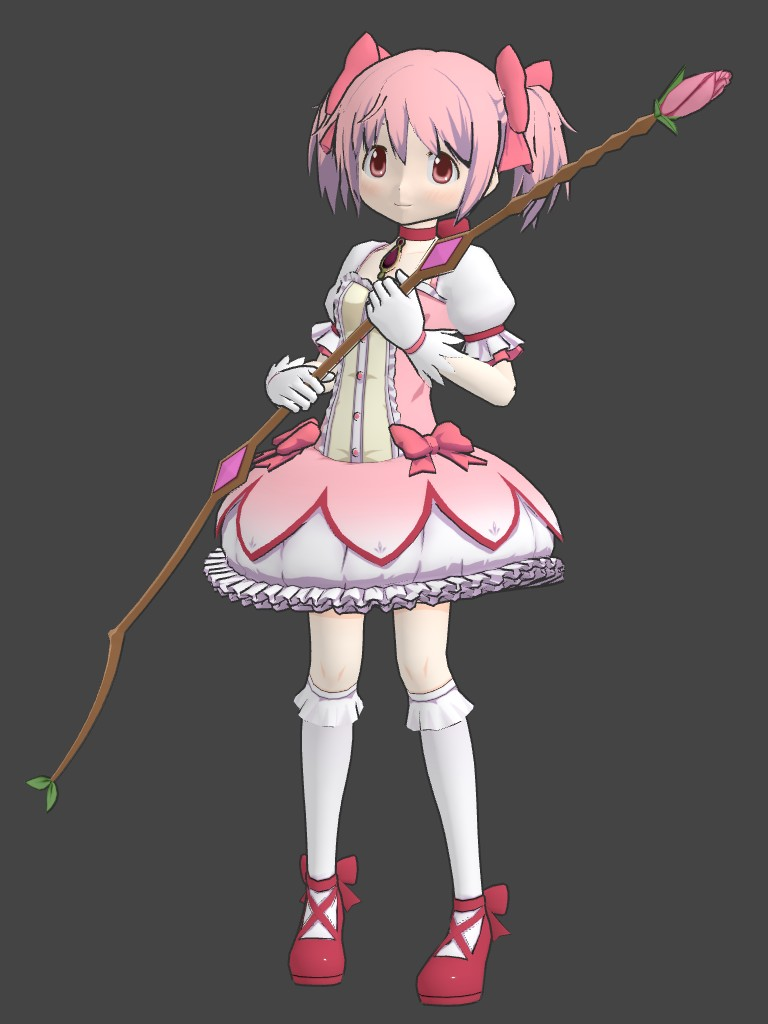
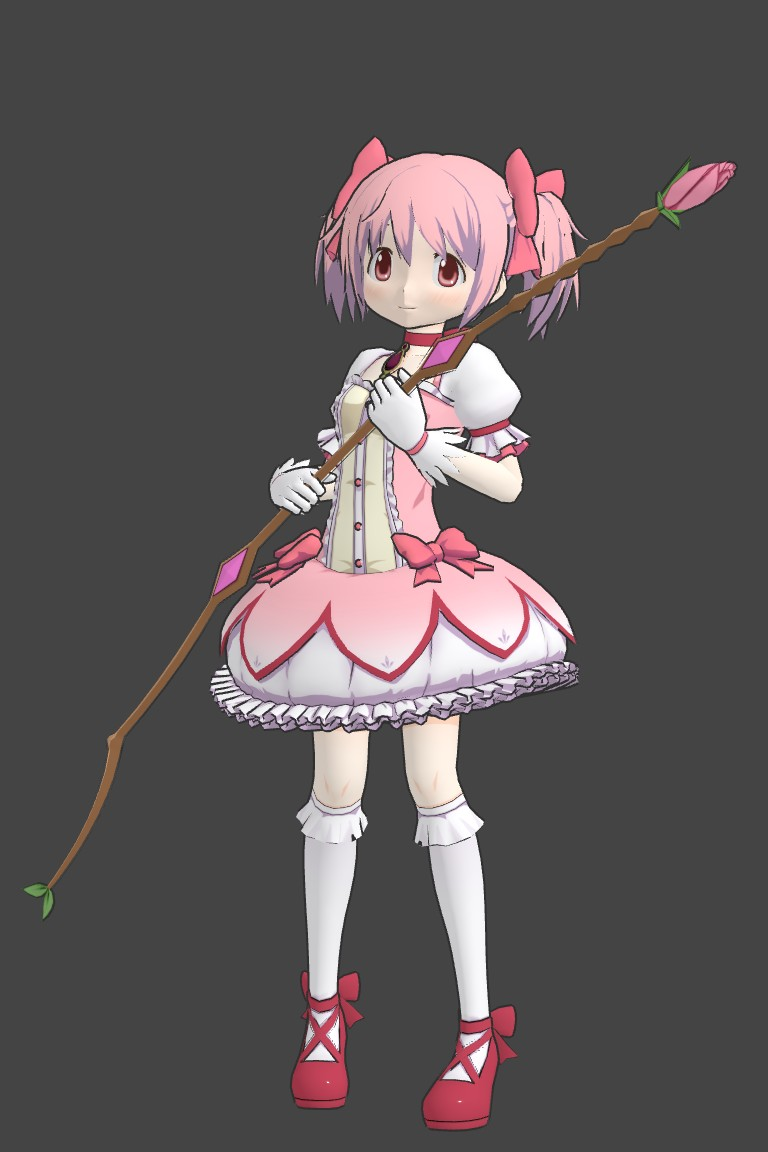
move load progress to center

Changed region(s): [[0.0312, 0.0312, 0.9688, 0.9688], [0.5312, 0.9375, 0.5625, 1.0], [0.5938, 0.9688, 0.625, 1.0]]

diff --git a/src/viewer/index.ts b/src/viewer/index.ts
@@ -14,9 +14,9 @@ const animationSelector = document.getElementById('animation-selector') as HTMLS
 const animationPlayBtn = document.getElementById('animation-play') as HTMLButtonElement
 const animationLoopBtn = document.getElementById('animation-loop') as HTMLButtonElement
 const animationStopBtn = document.getElementById('animation-stop') as HTMLButtonElement
-const loadProgressEl = document.getElementById('load-progress') as HTMLDivElement
-const threeGuiContainer = document.getElementById('three-gui') as HTMLDivElement
-const demoEl = document.getElementById('demo') as HTMLDivElement
+const loadProgressEl = document.getElementById('load-progress')!
+const threeGuiContainer = document.getElementById('three-gui')!
+const demoEls = document.getElementsByClassName('demo')
 
 animationPlayBtn.onclick = () => scene?.character?.playAnimation(animationSelector.value)
 animationLoopBtn.onclick = () => scene?.character?.playAnimation(animationSelector.value, true)
@@ -106,7 +106,7 @@ function changeCharacter(id: number | string) {
             loadFinishCallback: updateCharacterOutline // WARN: In some racing cases, a stale character may callback this function, but it won't cause any issues for now
         }
     ).then((character) => {
-        demoEl.style.display = 'none'
+        [...demoEls].forEach(x => x instanceof HTMLElement && (x.style.display = 'none'))
 
         initSelector(
             animationSelector,

diff --git a/index.html b/index.html
@@ -13,25 +13,30 @@
 
 <body>
     <div id="app">
-        <div id="demo">
-            <div><span>Demo screenshot. Please wait for the character to load...</span></div>
-            <img src="/src/demo.jpg" alt="Demo Screenshot">
-        </div>
-
         <div id="viewer"></div>
+
+        <img id="demo-screenshot" class="demo" src="/src/demo.jpg" alt="Demo Screenshot">
+
+        <div id="stat">
+            <span class="demo">Demo screenshot. Please wait for the character to load...</span>
+            <div style="text-align: center;">
+                <span id="load-progress"></span>
+            </div>
+        </div>
 
         <div id="menu">
             <div id="menu-controls">
                 <div>
                     Model: <select id="character-selector"></select>
                 </div>
+
                 <div>
                     Animation: <select id="animation-selector"></select>
                     <button id="animation-play">Play</button>
                     <button id="animation-loop">Loop</button>
                     <button id="animation-stop">Stop</button>
                 </div>
-                <div id="load-progress"></div>
+
                 <div id="three-gui"></div>
             </div>
 

diff --git a/src/style.css b/src/style.css
@@ -5,6 +5,7 @@
 body {
     margin: 0;
     background-color: #444;
+    color: white;
 }
 
 #menu {
@@ -12,7 +13,6 @@ body {
     top: 0;
     left: 0;
     right: 0;
-    color: white;
     display: flex;
     justify-content: space-between;
     pointer-events: none;
@@ -51,31 +51,31 @@ body {
     background: none;
 }
 
-#demo {
-    position: relative;
-    width: 100%;
-    height: 100vh;
-    /* display: none; */
-}
-
-#demo>div {
-    position: absolute;
-    top: 50%;
+#demo-screenshot {
+    position: fixed;
+    top: 0;
     left: 0;
-    right: 0;
-    transform: translateY(-50%);
-    text-align: center;
-}
-
-#demo>div>span {
-    color: white;
-    background-color: rgba(0, 0, 0, 0.5);
-    font-size: 1.75em;
-    padding: 0 0.2em;
-}
-
-#demo>img {
     width: 100%;
     height: 100%;
     object-fit: contain;
+    z-index: -10;
+}
+
+#stat {
+    position: fixed;
+    top: 50%;
+    left: 50%;
+    transform: translate(-50%, -50%);
+    text-align: center;
+}
+
+#stat .demo {
+    background-color: rgba(0, 0, 0, 0.5);
+    font-size: 1.5em;
+    padding: 0 0.2em;
+}
+
+#load-progress {
+    font-size: 1.25em;
+    background-color: rgba(0, 0, 0, 0.5);
 }
